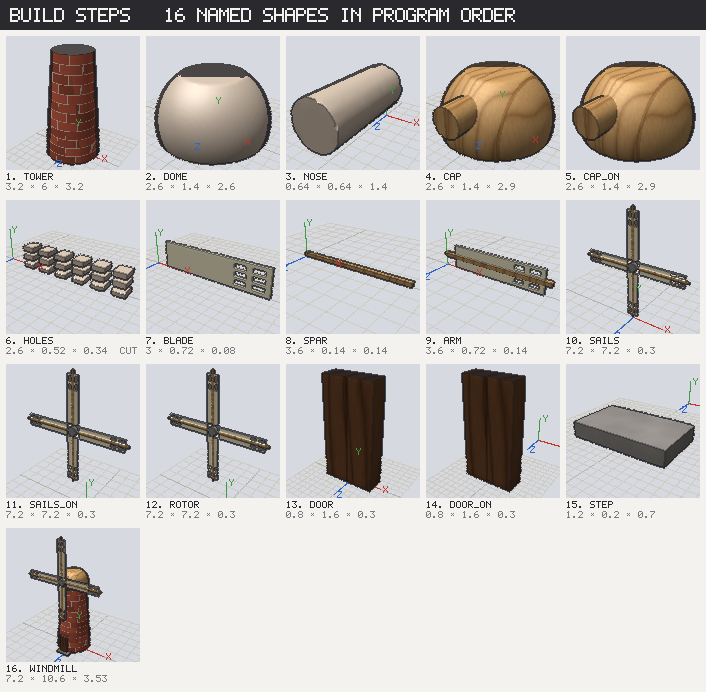
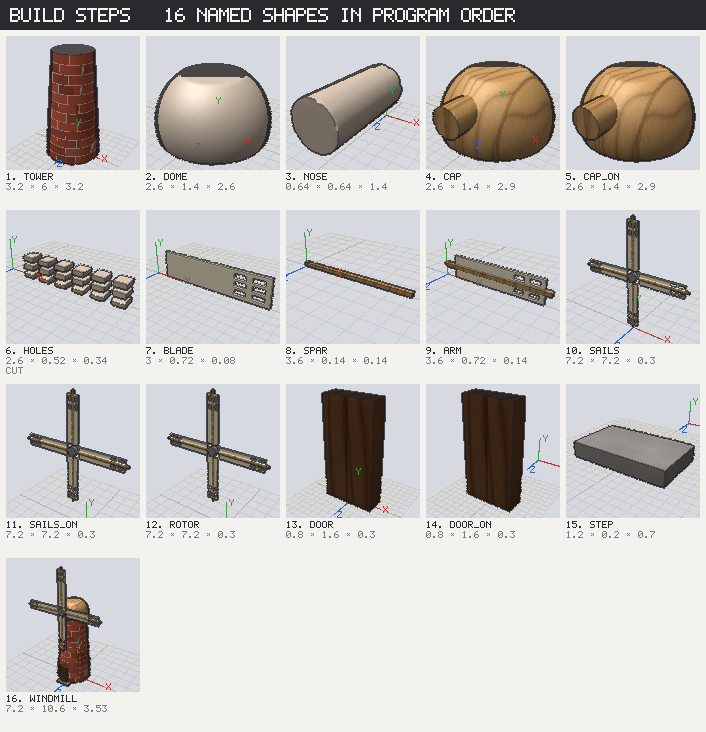
Fit the steps sheet's captions to their cells, and name a failed void's step by what holds the solid
The steps sheet cut a step's name to its cell but never its size-and-tag
line, so a cut with three two-decimal sizes ran into the next caption:
the teapot's bore read "CUT2.26", the chest's keyhole "CUT0.88". At the
committed size, 94 caption lines in 27 of the 82 rendered programs were
wider than their 134 px cell, a region's up to 167 px. The tag (cut,
mask, region, unused) now has a line of its own under the size on a
sheet with a tagged step, so it never sits beside a number; the name is
cut to the cell's width; and a size is never cut: where one does not fit
the cell, which only a small --size reaches, the sheet drops the spaces
round its "×", and where it still does not, the cells widen to the
widest size. The title bar, which a sheet of three steps cut off at
"PROGRA", shortens to fit, and "too fine for this thumbnail" takes two
lines in its thumbnail. Only steps sheets change: the twelve examples
with a tagged step (ten pixels taller a row) and the three of three
steps; their thumbnails and name lines are the same pixels as before.
The dogfood and std sets, which write no steps sheets, regenerate
unchanged.

A failed void named the smallest step of the measured shape whose own
volume held the point, and a cutter's volume holds points wherever
another part fills it: a pot unioned after its spout was bored was
reported "in 'bore'" in every order tried. The attribution now walks
down from the measured shape, carrying the point into each shape's
[…]

diff --git a/src/lang/interpreter.ts b/src/lang/interpreter.ts
@@ -8,7 +8,7 @@ import type { Vec3 } from "../core/vec.js";
 import { COMPARE_OPS, exprText, type Arg, type Expr, type Program, type Stmt } from "./ast.js";
 import { BUILTIN_MAP, CONSTANTS, CURRENT_ANGLES, CURRENT_POSES, toMaterial } from "./builtins.js";
 import { parse } from "./parser.js";
-import { union, scale as scaleShape, allJoints, joint as jointShape, placedUnder } from "../sdf/ops.js";
+import { union, scale as scaleShape, allJoints, joint as jointShape, isIntersection, placedUnder } from "../sdf/ops.js";
 import { regionTouches, voidWitness, outsideWitness, insideWitness, overlapWitness, clearanceAt } from "../sdf/measure.js";
 import { loosePiece, standing, type MeshCache } from "../mesh/pieces.js";
 import { BRIDGE_MM, supportOf, thinnestWall, UNITS } from "../mesh/print.js";
@@ -1460,26 +1460,55 @@ export function evaluate(program: Program, options: EvalOptions = {}): Evaluatio
   }
 
   /**
-   * The innermost named step of `within` with solid at `p`, as " in 'name'", for a failed void: a step whose value
-   * is in the measured shape's own tree (round 10: a gem's mask cube was named for an engraving's solid, and a
-   * bell for the gnome that poked through it), the shape itself when it is a step; none when no step holds it.
+   * The innermost named step of `within` with solid at `p`, as " in 'name'", for a failed void, inside or pieces: a
+   * step whose value is in the measured shape's own tree (round 10: a gem's mask cube was named for an engraving's
+   * solid, and a bell for the gnome that poked through it) and gives it that solid, reached from it only through
+   * shapes solid at `p` and never through what a difference takes away (stage 5: a pot unioned after its spout was
+   * bored was reported "in 'bore'", the cutter, whose volume held the point where the pot's wall stood); the shape
+   * itself when it is a step; none when no step holds it.
    */
   function stepAt(p: Vec3, exclude: Shape3[], within: Shape3): string {
     const roots = [within, ...(posed ? [...(output ? [output] : []), ...[...steps.values()].map((st) => st.value).filter(isShape3).reverse()] : [])];
-    const tree = shapeTree(within);
+    // Every step in it is solid at the point where the measured shape puts it: a bowl's wall built at the origin and
+    // moved into the bowl is read in the bowl, not at the origin (round 11: it was never found, and the bowl was named).
+    const tree = holdingTree(within, p, (d) => d <= 0, false);
     let best: string | undefined, bv = Infinity;
     for (const st of steps.values()) {
       if (!isShape3(st.value) || exclude.includes(st.value) || !tree.has(st.value) || isEmpty(st.value.bounds)) continue;
-      // Where the measured shape puts the step: a bowl's wall built at the origin and moved into the bowl is tested
-      // in the bowl, not at the origin (round 11: it was never found, and the bowl was named instead).
-      const s = placedUnder(roots, st.value);
-      const b = s.bounds;
-      if (p[0] < b.min[0] || p[0] > b.max[0] || p[1] < b.min[1] || p[1] > b.max[1] || p[2] < b.min[2] || p[2] > b.max[2]) continue;
-      if (s.dist(p[0], p[1], p[2]) > 0) continue;
+      const b = placedUnder(roots, st.value).bounds;
       const v = (b.max[0] - b.min[0]) * (b.max[1] - b.min[1]) * (b.max[2] - b.min[2]);
       if (v < bv) { bv = v; best = st.name; }
     }
     return best ? ` in '${best}'` : "";
+  }
+
+  /**
+   * The shapes of `within`'s tree that give it what it has at `p`: walked down from it through unions, wrappers,
+   * placed sets and joints with the point carried into each one's own frame, entering only a shape whose value there
+   * passes `keep` (solid, for a void; on the surface, for a wall's face), and a difference's cutter only when
+   * `cutters` (a cut face is the cutter's surface; the solid a cutter's volume holds is never the shape's). A step
+   * that is solid at the point but subtracted there, or inside a shell's hollow, or under a part a later cut took
+   * away, is not reached. `within` is in it when it passes `keep` itself; the walk goes below it either way.
+   */
+  function holdingTree(within: Shape3, p: Vec3, keep: (d: number) => boolean, cutters: boolean): Set<Shape3> {
+    const held = new Set<Shape3>(keep(within.dist(p[0], p[1], p[2])) ? [within] : []);
+    const seen = new Map<Shape3, Vec3[]>();
+    let budget = 100000;
+    const walk = (s: Shape3, q: Vec3, depth: number) => {
+      const at = seen.get(s);
+      if (at?.some((v) => v[0] === q[0] && v[1] === q[1] && v[2] === q[2]) || depth > 200 || budget-- <= 0) return;
+      if (at) at.push(q); else seen.set(s, [q]);
+      const r = s.unwarp ? s.unwarp(q[0], q[1], q[2]) : q;
+      const kids = s.parts ?? s.inner ?? [];
+      const subtracts = s.cut === true && !isIntersection(s);
+      kids.forEach((k, i) => {
+        if ((subtracts && i > 0 && !cutters) || !keep(k.dist(r[0], r[1], r[2]))) return;
+        held.add(k);
+        walk(k, r, depth + 1);
+      });
+    };
+    walk(within, p, 0);
+    return held;
   }
 
   /** Every shape in `within`'s tree, through unions, wrappers, placed sets and joints. */
@@ -1498,18 +1527,17 @@ export function evaluate(program: Program, options: EvalOptions = {}): Evaluatio
 
   /**
    * The innermost named steps of `within` whose surface passes within `tol` of a surface point, at most two, smallest
-   * box first and none that only holds another one found: the steps a wall's face belongs to, a cut's among them.
+   * box first and none that only holds another one found: the steps a wall's face belongs to, a cut's among them;
+   * reached from `within` through shapes whose surface is there too, so a cutter whose face passes through a part it
+   * never cut, or a part buried in another, is not named for a face it does not make.
    */
   function stepsAtSurface(p: Vec3, within: Shape3, tol: number): string[] {
     const roots = [within, ...(posed ? [...(output ? [output] : []), ...[...steps.values()].map((st) => st.value).filter(isShape3).reverse()] : [])];
-    const tree = shapeTree(within);
+    const tree = holdingTree(within, p, (d) => Math.abs(d) <= tol, true);
     const found: { name: string; value: Shape3; v: number }[] = [];
     for (const st of steps.values()) {
       if (!isShape3(st.value) || !tree.has(st.value) || isEmpty(st.value.bounds)) continue;
-      const s = placedUnder(roots, st.value);
-      const b = s.bounds;
-      if (p[0] < b.min[0] - tol || p[0] > b.max[0] + tol || p[1] < b.min[1] - tol || p[1] > b.max[1] + tol || p[2] < b.min[2] - tol || p[2] > b.max[2] + tol) continue;
-      if (Math.abs(s.dist(p[0], p[1], p[2])) > tol) continue;
+      const b = placedUnder(roots, st.value).bounds;
       found.push({ name: st.name, value: st.value, v: (b.max[0] - b.min[0]) * (b.max[1] - b.min[1]) * (b.max[2] - b.min[2]) });
     }
     found.sort((x, y) => x.v - y.v);

diff --git a/src/render/views.ts b/src/render/views.ts
@@ -14,7 +14,7 @@ import { surfaceNets } from "../mesh/surfaceNets.js";
 import { meshBounds, triangleCount, type Mesh } from "../mesh/mesh.js";
 import { orthographic, perspective, project, toView, type Camera, type OrthoView } from "./camera.js";
 import { Canvas, mixColor, rgbf, type Color } from "./canvas.js";
-import { drawText, textWidth } from "./font.js";
+import { drawText, GLYPH_WIDTH, textWidth } from "./font.js";
 import { createTarget, renderGhost, renderLine, renderMesh, type RenderTarget } from "./raster.js";
 
 export const INK = {
@@ -59,9 +59,10 @@ export function fmtCell(v: number): string {
 /** A size or a grid step: as fmt prints it, and under 0.005 to two significant figures rather than 0 (a 4 mm part in metres read 0 × 0 × 0, its grid 0). */
 const fmtSize = (v: number): string => (v !== 0 && Math.abs(v) < 0.005 ? String(Number(v.toPrecision(2))) : fmt(v));
 
-export function dimsLabel(b: Bounds): string {
+/** A box's size as `w × h × d`; `sep` is what goes between the three (the steps sheet's narrow cells use "×"). */
+export function dimsLabel(b: Bounds, sep = " × "): string {
   const s = boundsSize(b);
-  return `${fmtSize(s[0])} × ${fmtSize(s[1])} × ${fmtSize(s[2])}`;
+  return `${fmtSize(s[0])}${sep}${fmtSize(s[1])}${sep}${fmtSize(s[2])}`;
 }
 
 /**
@@ -340,14 +341,45 @@ export function meshSteps(steps: StepView[], cellSize = 0, maxResolution = 96, o
   });
 }
 
-/** One perspective thumbnail per step, five per row, labelled with the name and size. */
-export function renderSteps(steps: StepView[], thumb: number, resolution = 48): Canvas {
+/** What a step is, for the line under its size on the steps sheet: nothing for a part the output uses. */
+function stepTag(st: StepView): string {
+  return st.role === "cut" ? "cut" : st.role === "mask" ? "mask" : st.role === "region" ? "region" : st.used ? "" : "unused";
+}
+
+/**
+ * The steps sheet's captions and the cell they fit: per step its number and name (cut short with "…" when long), its
+ * size, and its tag (cut, mask, region, unused) on a line of its own. The tag used to follow the size on one line, and
+ * a cut's three two-decimal sizes and the tag ran past a 134 px cell into the next caption (the teapot's bore read
+ * "CUT2.26"; a region's ran 33 px over): 94 lines over in 27 of the 82 rendered programs. A size is never cut short:
+ * where one does not fit the thumbnail, the sheet drops the spaces round its "×", and where it still does not, the
+ * cells widen to the widest size, so a sheet asked for at a small --size gets thumbnails the captions can sit under.
+ */
+export function stepCaptions(steps: StepView[], thumb: number): { cell: number; lines: string[][] } {
+  const size = (st: StepView, sep: string) => (isEmpty(st.shape.bounds) ? "empty" : dimsLabel(st.shape.bounds, sep));
+  const sep = steps.every((st) => textWidth(size(st, " × ")) <= thumb) ? " × " : "×";
+  const cell = Math.max(thumb, ...steps.map((st) => Math.max(textWidth(size(st, sep)), textWidth(stepTag(st)))));
+  const fit = Math.floor((cell + 1) / (GLYPH_WIDTH + 1));
+  const lines = steps.map((st, i) => {
+    const name = [...`${i + 1}. ${st.name}`];
+    const tag = stepTag(st);
+    return [name.length > fit ? name.slice(0, fit - 1).join("") + "…" : name.join(""), size(st, sep), ...(tag ? [tag] : [])];
+  });
+  return { cell, lines };
+}
+
+/** One perspective thumbnail per step, five per row, labelled with the name, the size and what the step is. */
+export function renderSteps(steps: StepView[], thumbAsked: number, resolution = 48): Canvas {
+  const { cell: thumb, lines } = stepCaptions(steps, thumbAsked);
   const cols = Math.min(5, Math.max(1, steps.length));
   const rows = Math.max(1, Math.ceil(steps.length / cols));
-  const labelH = 24, gutter = 6, bar = 30;
+  // A third caption line on a sheet with a tagged step, so the tag is always under the size and never beside it.
+  const labelH = steps.some((st) => stepTag(st) !== "") ? 34 : 24, gutter = 6, bar = 30;
   const out = new Canvas(cols * (thumb + gutter) + gutter, bar + rows * (thumb + labelH + gutter) + gutter, INK.page);
   out.fill(0, 0, out.width, bar, INK.bar);
-  drawText(out, 10, 8, `BUILD STEPS   ${steps.length} named shape${steps.length === 1 ? "" : "s"} in program order`, INK.barText, 2);
+  // The title as long as the sheet is wide: a sheet of three steps cut "in program order" off at "PROGRA".
+  const count = `${steps.length} named shape${steps.length === 1 ? "" : "s"}`;
+  const titles = [`BUILD STEPS   ${count} in program order`, `BUILD STEPS   ${count}`, "BUILD STEPS"];
+  drawText(out, 10, 8, titles.find((t) => 10 + textWidth(t, 2) <= out.width - 6) ?? titles[2], INK.barText, 2);
   steps.forEach((st, i) => {
     const x = gutter + (i % cols) * (thumb + gutter);
     const y = bar + gutter + Math.floor(i / cols) * (thumb + labelH + gutter);
@@ -364,7 +396,8 @@ export function renderSteps(steps: StepView[], thumb: number, resolution = 48): 
       canvas = renderView(mesh, { name: st.name, bounds: st.shape.bounds }, "persp", thumb, { label: false, solidGlass: allGlass });
       if (triangleCount(mesh) === 0) {
         // Coarse means the thumbnail's grid, not the model, lost it: say so in grey, not in the warning colour.
-        if (st.coarse) drawText(canvas, 8, thumb / 2 - 4, "TOO FINE FOR THIS THUMBNAIL", INK.dim, 1);
+        // Its two lines, as the 27 characters on one ran past a 134 px thumbnail and were cut at its edge.
+        if (st.coarse) ["TOO FINE FOR", "THIS THUMBNAIL"].forEach((t, k) => drawText(canvas, 8, thumb / 2 - 9 + k * 10, t, INK.dim, 1));
         else drawText(canvas, 8, thumb / 2 - 4, "NO SURFACE", INK.warn, 1);
       }
     }
@@ -374,10 +407,10 @@ export function renderSteps(steps: StepView[], thumb: number, resolution = 48): 
     if (!st.used && !region) canvas.rect(0, 0, thumb, thumb, INK.warn);
     if (region) canvas.rect(0, 0, thumb, thumb, INK.dim);
     out.blit(canvas, x, y);
-    const name = `${i + 1}. ${st.name}`;
-    drawText(out, x, y + thumb + 3, name.length > thumb / 6 ? name.slice(0, Math.floor(thumb / 6) - 1) + "…" : name, st.used || region ? INK.text : INK.warn, 1);
-    const tag = st.role === "cut" ? "  cut" : st.role === "mask" ? "  mask" : region ? "  region" : st.used ? "" : "  unused";
-    drawText(out, x, y + thumb + 13, isEmpty(st.shape.bounds) ? "empty" : dimsLabel(st.shape.bounds) + tag, INK.dim, 1);
+    const [name, size, tag] = lines[i];
+    drawText(out, x, y + thumb + 3, name, st.used || region ? INK.text : INK.warn, 1);
+    drawText(out, x, y + thumb + 13, size, INK.dim, 1);
+    if (tag) drawText(out, x, y + thumb + 23, tag, st.used || region ? INK.dim : INK.warn, 1);
   });
   return out;
 }

diff --git a/tests/render.test.ts b/tests/render.test.ts
@@ -2,7 +2,7 @@ import { describe, expect, it } from "vitest";
 import * as P from "../src/sdf/primitives.js";
 import * as O from "../src/sdf/ops.js";
 import { surfaceNets } from "../src/mesh/surfaceNets.js";
-import { renderSheet, renderSlices, renderSteps, renderTurntable, renderView, INK, gridStep, defaultLevel, dimsLabel, meshSteps } from "../src/render/views.js";
+import { renderSheet, renderSlices, renderSteps, renderTurntable, renderView, INK, gridStep, defaultLevel, dimsLabel, meshSteps, stepCaptions } from "../src/render/views.js";
 import { createTarget, renderGhost, renderMesh } from "../src/render/raster.js";
 import { attributeVertices, renderCallouts, hiddenFraction } from "../src/render/callouts.js";
 import { decodePng, encodePng, encodeApng } from "../src/render/png.js";
@@ -133,6 +133,43 @@ describe("views", () => {
     expect(steps.width).toBe(2 * 66 + 6);
     const tt = renderTurntable(mesh, info, 40, 4);
     expect(tt.width).toBe(4 * 44 + 4);
+  });
+  it("keeps every steps caption inside its cell, the size whole and the tag on a line under it", () => {
+    // The widest captions the rendered programs make at the committed size (thumbnails 134 px): a region of three
+    // short sizes ran 167 px, and a cut's ("1.59 × 1.94 × 0.24  cut", the teapot's bore) into the next caption.
+    const thumb = 134, gutter = 6, bar = 30;
+    const steps = [
+      { name: "eye_hole", shape: P.box(0.03, 0.068, 0.068), used: false, role: "region" as const, line: 1 },
+      { name: "bore", shape: P.box(1.59, 1.94, 0.24), used: true, role: "cut" as const, line: 2 },
+      { name: "a_part_with_a_long_name", shape: P.box(0.048, 0.048, 0.036), used: true, line: 3 },
+    ];
+    const sheet = renderSteps(steps, thumb, 16);
+    const labelH = sheet.height - bar - gutter - thumb - gutter;
+    const y0 = bar + gutter + thumb;
+    for (let c = 0; c < steps.length; c++) {
+      const x = gutter + c * (thumb + gutter);
+      // Nothing drawn in the gutter right of the cell (or past the last cell's edge) in any caption line.
+      for (let y = y0; y < y0 + labelH; y++)
+        for (let px = x + thumb; px < x + thumb + gutter; px++) expect(sheet.get(px, y), `cell ${c} at (${px}, ${y})`).toBe(INK.page);
+    }
+    // Three caption lines, as two of the steps are tagged.
+    expect(labelH).toBe(34);
+    // The title bar of a sheet three thumbnails wide ends inside it, rather than at its edge mid-word.
+    for (let y = 0; y < bar; y++) for (let px = sheet.width - gutter; px < sheet.width; px++) expect(sheet.get(px, y), `title at (${px}, ${y})`).toBe(INK.bar);
+    const { cell, lines } = stepCaptions(steps, thumb);
+    expect(cell).toBe(thumb);
+    expect(lines[0]).toEqual(["1. eye_hole", "0.03 × 0.068 × 0.068", "region"]);
+    expect(lines[1]).toEqual(["2. bore", "1.59 × 1.94 × 0.24", "cut"]);
+    expect(lines[2]).toEqual(["3. a_part_with_a_long…", "0.048 × 0.048 × 0.036"]);
+    for (const l of lines) for (const s of l) expect(textWidth(s, 1)).toBeLessThanOrEqual(cell);
+    // The tag is drawn: ink on the third line under the region and the cut, none under the part.
+    const inked = (c: number) => { const x = gutter + c * (thumb + gutter); for (let y = y0 + 23; y < y0 + 30; y++) for (let px = x; px < x + thumb; px++) if (sheet.get(px, y) !== INK.page) return true; return false; };
+    expect([inked(0), inked(1), inked(2)]).toEqual([true, true, false]);
+    // A small sheet drops the spaces round the "×" and widens its cells to the widest size rather than cutting it.
+    const small = stepCaptions(steps, 40);
+    expect(small.lines[2][1]).toBe("0.048×0.048×0.036");
+    expect(small.cell).toBe(textWidth("0.048×0.048×0.036", 1));
+    expect(renderSteps(steps, 40, 8).width).toBe(3 * (small.cell + gutter) + gutter);
   });
   it("picks slice planes through the origin when the model straddles it", () => {
     expect(defaultLevel({ min: [-1, 0, -1], max: [3, 2, 1] }, "x")).toBe(0);

diff --git a/tests/lang.test.ts b/tests/lang.test.ts
@@ -331,6 +331,28 @@ describe("interpreter", () => {
     const two = run('a = sphere(0.5)\nb = sphere(0.2) | move(3, 0, 0)\nassert pieces(a + b) == 1\nshow a + b');
     expect(two.asserts[0].where).toMatch(/^the smallest piece is 0\.0\d+ cubic units at \(3, 0, 0\) in 'b'$/);
   });
+  it("names for a failed void, inside or pieces a step that gives the shape its solid there, never a cutter (stage 5)", () => {
+    // The teapot's case: a block (the pot) unioned after a bored spout. The rod down the bore runs on into the block,
+    // where the bore's own volume holds the point too: the bore is subtracted from the spout only, so the solid there
+    // is the block's. The attribution named the cutter, the smallest box holding the point.
+    const pot = "pot = box(2, 1, 2)\nspout = cylinder(0.3, 2) | rotate(z=90) | move(1.5, 0.5, 0)\nbore = cylinder(0.15, 2.4) | rotate(z=90) | move(1.5, 0.5, 0)\nrod = cylinder(0.1, 2.6) | rotate(z=90) | move(1.6, 0.5, 0)\n";
+    for (const model of ["pot + (spout - bore)", "(spout - bore) + pot", "(pot + spout - bore) + pot"]) {
+      const ev = run(`${pot}model = ${model}\nassert void(rod, model)\nassert inside(rod, model) == 0\nshow model`);
+      expect(ev.asserts.map((a) => a.passed), model).toEqual([false, false]);
+      expect(ev.asserts[0].where, model).toMatch(/^solid at \(.*\) in 'pot'$/);
+      expect(ev.asserts[1].where, model).toMatch(/inside model at \(.*\) in 'pot'/);
+    }
+    // A loose piece is named for the part it is, not for a smaller cutter whose box holds its inside point.
+    const loose = run("a = sphere(0.5)\nb = sphere(0.2) | move(3, 0, 0)\nnick = box(0.39, 0.39, 0.39) | move(3, 0, 0)\nassert pieces((a - nick) + b) == 1\nshow (a - nick) + b");
+    expect(loose.asserts[0].where).toMatch(/^the smallest piece is .* in 'b'$/);
+    // A wall's faces are named by the same walk, through shapes whose surface is there: a trimmer whose bottom face lies
+    // on the plate's top, taken from the post alone, does not make the plate's face.
+    const wall = run("plate = box(2, 0.1, 2)\npost = cylinder(0.3, 2) | move(0, 1, 0)\ntrim = box(3, 1, 3) | move(0, 0.55, 0)\nmodel = plate + (post - trim)\nassert wall(model) > 0.2\nshow model");
+    expect(wall.asserts[0].where).toMatch(/^thinnest at \(.*\) in 'plate', through to \(.*\) in 'plate'$/);
+    // The walk passes through a wrapper solid at the point: the rod down a shelled cup meets its floor, the body's.
+    const cup = run("body = cylinder(1, 1)\ncup = shell(body, 0.1)\nrod = cylinder(0.05, 3) | move(0, -1, 0)\nassert void(rod, cup)\nshow cup");
+    expect(cup.asserts[0].where).toMatch(/^solid at \(.*\) in '(cup|body)'$/);
+  });
   it("warns when a part round about the ring's axis is turned just before the ring, which turns nothing (round 10)", () => {
     const ev = run('pocket = cylinder(0.1, 0.3) | move(0, 0.28, 0) | rotate(y=30)\npockets = pocket | ring(6, 0.7)\nslot = box(0.3, 0.1, 0.1) | rotate(y=30)\nslots = slot | ring(6, 0.7)\nright = cylinder(0.1, 0.3) | ring(6, 0.7) | rotate(y=30)\nshow pockets + slots + right');
     expect(ev.warnings.filter((w) => /ring\(\)/.test(w))).toEqual([expect.stringMatching(/^line 2: ring\(\): 'pocket' was turned about y by 30 just before the ring, which leaves it as it was .* rotate after it: \.\.\. \| ring\(\.\.\.\) \| rotate\(y=30\)$/)]);

diff --git a/src/sdf/ops.ts b/src/sdf/ops.ts
@@ -236,6 +236,11 @@ export function intersect(a: Shape3, b: Shape3, k = 0): Shape3 {
   return out;
 }
 
+/** Whether a `cut` node keeps the overlap of its two shapes (`a & b`), rather than taking the second from the first. */
+export function isIntersection(s: Shape3): boolean {
+  return INTERSECTIONS.has(s);
+}
+
 // --- transforms --------------------------------------------------------------
 
 export function move(s: Shape3, dx: number, dy: number, dz: number): Shape3 {

diff --git a/docs/roadmap.md b/docs/roadmap.md
@@ -1586,14 +1586,34 @@ occlusion (design.md, "A grid over the pieces").
     since the kernel, and the cafe set's scaled rug is the same. The bend
     gate keeps it off the highlights (12% at the boss's peak). A fix
     would measure the occlusion against the gradient's length.
-  - The steps sheet truncates a step's name but not its size-and-tag
-    line, so a cut with three two-decimal sizes runs into the next
-    caption (the teapot's `bore` reads "CUT2.26"). Scanned over all 126
-    programs, 140 step captions overflow. A fix moves about 60 steps
-    sheets.
-  - When `void()` fails it can name the cutter's step for a solid point
-    (a pot unioned after its bored spout is reported "in 'bore'"): the
-    attribution prefers a cutter whose volume holds the point.
+  - Done: the steps sheet truncated a step's name but not its
+    size-and-tag line, so a cut with three two-decimal sizes ran into
+    the next caption (the teapot's `bore` read "CUT2.26"). Measured over
+    the 82 rendered programs at the committed size (134 px cells): 94
+    caption lines wider than their cell, in 27 programs, the widest 167
+    px (a region's, round 11's door); 168 lines in 45 programs counting
+    the probes. The tag (`cut`, `mask`, `region`, `unused`) is now a
+    third line under the size on a sheet that has a tagged step, the
+    name is cut to the cell's width, and a size is never cut: where one
+    does not fit (for the rendered programs, only in cells under 126 px,
+    from `--size` under 360, not at the committed 384 or the default
+    512) the sheet drops the spaces round its "×", and where it still
+    does not it widens the cells to the widest size. None is over at
+    cells of 22 to 179 px. The title bar shortens on a sheet of under
+    five steps, which cut it off at "PROGRA", and "too fine for this
+    thumbnail" takes two lines. Fifteen of the 34 examples' steps
+    sheets moved; their thumbnails and name lines are the same pixels.
+  - Done: when `void()` failed it could name the cutter's step for a
+    solid point (a pot unioned after its bored spout was reported "in
+    'bore'"): the attribution took the smallest box among every step of
+    the shape's tree whose own volume held the point, and a cutter's
+    does. It now walks down from the measured shape through shapes solid
+    at the point and never into what a difference takes away, so the step
+    named gives the shape its solid there; `inside` and `pieces` share it,
+    and the wall, support and islands queries' faces walk the same way
+    through shapes whose surface is there. Six orders of the teapot's
+    union with the spout bored alone all said 'bore'; they say 'body',
+    the solid the pot is shelled from, whose box ties the pot's.
 
 ## What was considered and set aside
 

diff --git a/docs/design.md b/docs/design.md
@@ -1680,7 +1680,14 @@ a witness: a void the point and the step of the measured shape holding
 solid there (and, for a region made of copies, which copy), an overlap
 the point the two share or, when they share nothing, whether they touch,
 stand apart or overlap more thinly than the lattice resolves, which is
-the clearance between them read at its closest pair. The meshing
+the clearance between them read at its closest pair. The step named for
+a solid point is found by walking down from the measured shape, the
+point carried into each shape's frame, entering only shapes solid there
+and never what a difference takes away, then taking the smallest box
+reached: a cutter's own volume holds points the shape is solid at
+wherever another part fills it (a pot unioned after its bored spout was
+reported in the bore), and only the walk knows the bore was taken from
+the spout alone. The meshing
 queries share their work: one evaluation keeps a mesh and its analysis
 per shape and grid, so `pieces(hub)`, `overhang(hub)` and `wall(hub)`
 mesh the hub once, and a failing `pieces()` names its loose piece from that same

diff --git a/docs/language.md b/docs/language.md
@@ -2066,7 +2066,12 @@ that is zero). `void(region, shape)` is 1 when the region holds no
 solid of the shape: `assert void(cavity, mug)` promises nothing pokes
 into the cup (the mug example's handle once reached inside it), and a
 failure says where the solid is and in which step (`void(cavity, mug),
-solid at (0.44, 1.3, 0) in 'handle'`). The region is a shape of its
+solid at (0.44, 1.3, 0) in 'handle'`): the smallest step that gives the
+shape its solid there, never a cutter whose volume happens to hold the
+point (a rod down a spout bored on its own, before the pot was added,
+meets the pot's wall, and the failure names the body the pot is shelled
+from, not the bore, which only the spout lost), and the same for
+`inside` and `pieces`. The region is a shape of its
 own, never the cutter: a cutter's volume is empty by construction, so
 `void(slot, plate)` holds whether or not the slot went through; "the
 hole goes through" is a thinner rod reaching past both faces,

diff --git a/docs/agent-guide.md b/docs/agent-guide.md
@@ -134,6 +134,10 @@ mesh; `--no-cache` samples afresh.
   caption names (`grid 0.25`); the darker lines pass through the origin.
 - The perspective view's floor grid is at y = 0 (or under the model if it
   goes lower); the red, green and blue lines are +x, +y, +z at the origin.
+- Each thumbnail on the steps sheet is captioned with its number and name,
+  its size `w × h × d`, and on a third line what it is when it is not a
+  part: `cut` (drawn as the solid it removes), `mask`, `region` (framed
+  grey) or `unused`. A long name ends in "…"; a size never does.
 - A part visible in the steps sheet with a red frame is not in the output:
   you forgot to add it. A thumbnail that says "too fine for this
   thumbnail" is a small part in a large step (bolts along a bench) that

diff --git a/.claude/skills/aixle/SKILL.md b/.claude/skills/aixle/SKILL.md
@@ -174,7 +174,8 @@ Reference: `docs/reference.md` (every function, generated from the code;
   perspective view's red, green, blue lines are +x, +y, +z.
 - A red frame in `steps.png` is a shape that never reached the output;
   "too fine for this thumbnail" is a tiny part the thumbnail's grid could
-  not draw, nothing wrong with the model.
+  not draw, nothing wrong with the model. Under each thumbnail: number and
+  name, size, then `cut`, `mask`, `region` or `unused` on a third line.
 - Slices are the truth about interiors: filled means solid.
 - `lights.png` (two or more lights) is one half-size draft render of
   the shot `beauty.png` shows, each light's light kept apart: the top
